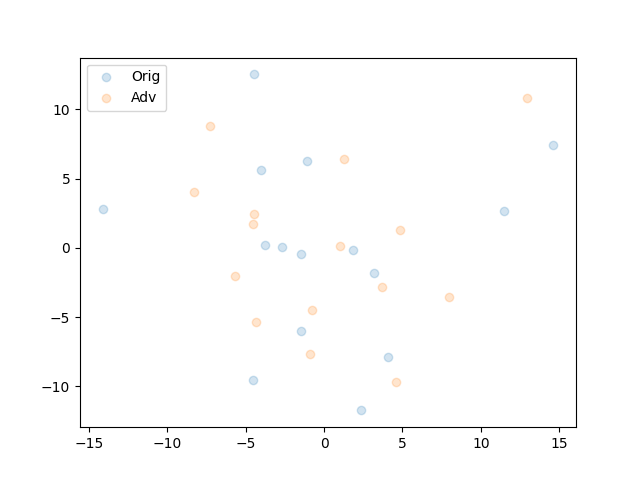
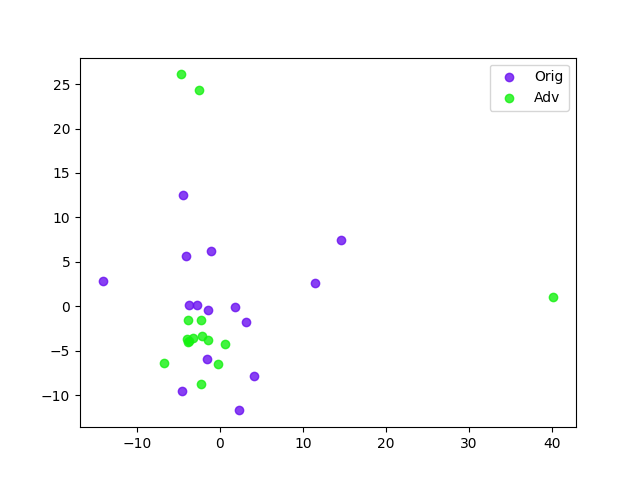
Correct disc loss function in PGD

diff --git a/style-based-gan-pytorch/generate_adversarial.py b/style-based-gan-pytorch/generate_adversarial.py
@@ -25,8 +25,8 @@ def visualize_data_distribution(z, adv_z):
     z_proj = pca.fit_transform(z)
     adv_z_proj = pca.fit_transform(adv_z)
 
-    plt.scatter(z_proj[:, 0], z_proj[:, 1], label='Orig', alpha=0.20)
-    plt.scatter(adv_z_proj[:, 0], adv_z_proj[:, 1], label='Adv', alpha=0.20)
+    plt.scatter(z_proj[:, 0], z_proj[:, 1], label='Orig', c='#6A10F1', alpha=0.80)
+    plt.scatter(adv_z_proj[:, 0], adv_z_proj[:, 1], label='Adv', c='#14F110', alpha=0.80)
     plt.legend()
     plt.savefig(f'latent_space_vis.png')
 
@@ -81,8 +81,8 @@ def attack(generator, discriminator, step, mean_style, n_sample, device):
             size = 4 * 2 ** i
             noise.append(torch.randn(z.shape[0], 1, size, size, device=z.device))
 
-        adversary = PGD(generator, discriminator, alpha=1, 
-                        steps=1000, random_start=False, eps=0.05)
+        adversary = PGD(generator, discriminator, alpha=1,
+                        steps=100, random_start=False, eps=0.05)
         adv_z = adversary(
             z,
             noise,
@@ -135,8 +135,8 @@ def attack(generator, discriminator, step, mean_style, n_sample, device):
     sigma = torch.std(z, dim=0)
     adv_mu = torch.mean(adv_z, dim=0)
     adv_sigma = torch.std(adv_z, dim=0)
-    print(-0.5 * (1. + (sigma **2).log() - mu **2 - sigma **2).mean())
-    print(-0.5 * (1. + (adv_sigma **2).log() - adv_mu **2 - adv_sigma **2).mean())
+    print('Sampled KL:', -0.5 * (1. + (sigma **2).log() - mu **2 - sigma **2).mean().item())
+    print('Adversarial KL:', -0.5 * (1. + (adv_sigma **2).log() - adv_mu **2 - adv_sigma **2).mean().item())
 
     image = torch.stack(images, dim=0)
     adv_image = torch.stack(adv_images, dim=0)

diff --git a/style-based-gan-pytorch/torchattacks/attacks/pgd.py b/style-based-gan-pytorch/torchattacks/attacks/pgd.py
@@ -72,7 +72,7 @@ class PGD(Attack):
 
             # Calculate discriminator loss
             disc_out = self.discriminator(outputs, step=step, alpha=alpha)
-            loss = F.softplus(-disc_out).mean()
+            loss = F.softplus(disc_out).mean()
             print('Disc:', loss.item())
 
             # drive outputs to zeros, adv attack needs to actually minimize this loss
@@ -84,6 +84,7 @@ class PGD(Attack):
             kl_loss = -0.5 * (1. + (sigma **2).log() - mu **2 - sigma **2).mean()
             print('KL:', kl_loss.item())
 
+            # we perform gradient ascent but should still minimize KL div
             loss = loss - 100. * kl_loss
 #             print('Wrong predictions: {} / {}'.format(
 #                 (disc_out.sigmoid() < 0.5).sum().item(), disc_out.shape[0]))

diff --git a/style-based-gan-pytorch/train_disc.py b/style-based-gan-pytorch/train_disc.py
@@ -147,6 +147,7 @@ def train(args, dataset, discriminator):
             gen_in1 = gen_in1.squeeze(0)
             gen_in2 = gen_in2.squeeze(0)
 
+        # TODO: normalize b/w [-1, 1]
         fake_image = torch.rand(real_image.shape, device=real_image.device)
         fake_predict = discriminator(fake_image, step=step, alpha=alpha)
 
@@ -249,7 +250,7 @@ if __name__ == '__main__':
     if args.sched:
         args.lr = {128: 0.0015, 256: 0.002, 512: 0.003, 1024: 0.003}
         # args.batch = {4: 512, 8: 256, 16: 128, 32: 64, 64: 32, 128: 32, 256: 32}
-        args.batch = {4: 16, 8: 8, 16: 4, 32: 4, 64: 4, 128: 4, 256: 4}
+        args.batch = {4: 4, 8: 4, 16: 4, 32: 4, 64: 4, 128: 4, 256: 4}
 
     else:
         args.lr = {}
